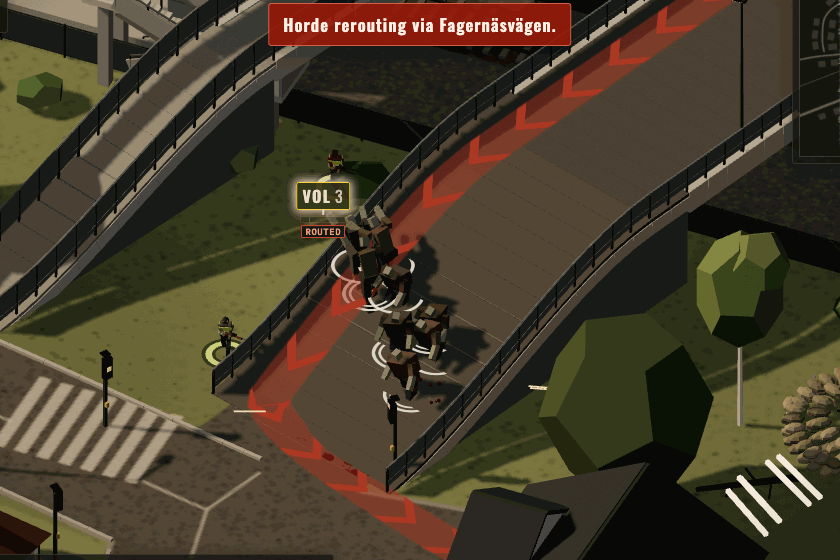
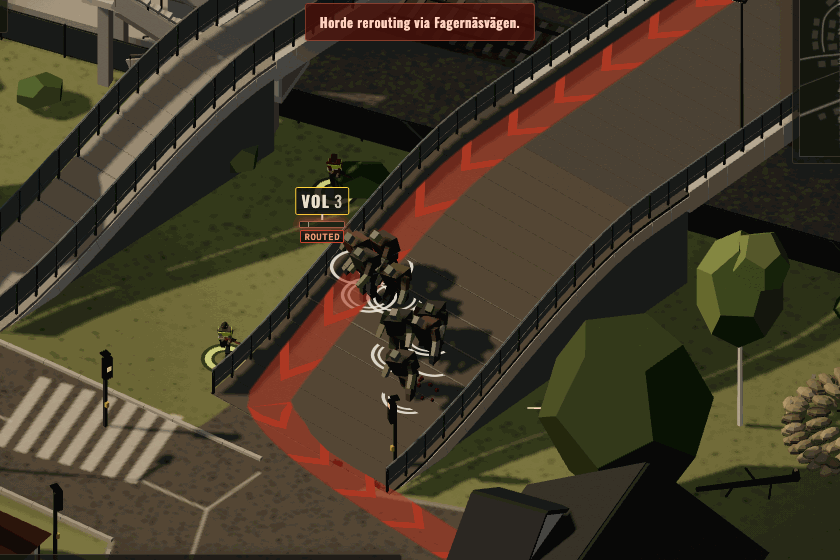
0.19.1: ändringslogg och version

diff --git a/index.html b/index.html
@@ -4,7 +4,7 @@
 <title>Horde</title>
 <link rel="icon" href="data:,">
 <link rel="stylesheet" href="styles.css">
-<script type="importmap">{ "imports": { "three": "https://cdn.jsdelivr.net/npm/three@0.160.0/build/three.module.js", "./src/audio/audio.js": "./src/audio/audio.js?v=0.19.0", "./src/audio/mix.js": "./src/audio/mix.js?v=0.19.0", "./src/audio/music.js": "./src/audio/music.js?v=0.19.0", "./src/audio/voices.js": "./src/audio/voices.js?v=0.19.0", "./src/data/arrival.js": "./src/data/arrival.js?v=0.19.0", "./src/data/bjornlunda.js": "./src/data/bjornlunda.js?v=0.19.0", "./src/data/depot.js": "./src/data/depot.js?v=0.19.0", "./src/data/e4-lastringe.js": "./src/data/e4-lastringe.js?v=0.19.0", "./src/data/footprints.js": "./src/data/footprints.js?v=0.19.0", "./src/data/gnesta-centrum.js": "./src/data/gnesta-centrum.js?v=0.19.0", "./src/data/gnesta-norr.js": "./src/data/gnesta-norr.js?v=0.19.0", "./src/data/gnesta.js": "./src/data/gnesta.js?v=0.19.0", "./src/data/lessons.js": "./src/data/lessons.js?v=0.19.0", "./src/data/maps.js": "./src/data/maps.js?v=0.19.0", "./src/data/molnbo.js": "./src/data/molnbo.js?v=0.19.0", "./src/data/obstacles.js": "./src/data/obstacles.js?v=0.19.0", "./src/data/osm-map.js": "./src/data/osm-map.js?v=0.19.0", "./src/data/research.js": "./src/data/research.js?v=0.19.0", "./src/data/shop.js": "./src/data/shop.js?v=0.19.0", "./src/data/weapons.js": "./src/data/weapons.js?v=0.19.0", "./src/data/zombies.js": "./src/data/zombies.js?v=0.19.0", "./src/main.js": "./src/main.js?v=0.19.0", "./src/meta/debug-store.js": "./src/meta/debug-store.js?v=0.19.0", "./src/meta/intel.js": "./src/meta/intel.js?v=0.19.0", "./src/meta/lessons.js": "./src/meta/lessons.js?v=0.19.0", "./src/meta/operation.js": "./src/meta/operation.js?v=0.19.0", "./src/meta/progress.js": "./src/meta/progress.js?v=0.19.0", "./src/meta/save.js": "./src/meta/save.js?v=0.19.0", "./src/meta/settings.js": "./src/meta/settings.js?v=0.19.0", "./src/meta/unlocks.js": "./src/meta/unlocks.js?v=0.19.0", "./src/render/bjornlunda-kit.js": "./src/render/bjornlunda-kit.js?v=0.19.0", "./src/render/camera-eye.js": "./src/render/camera-eye.js?v=0.19.0", "./src/render/camera-rig.js": "./src/render/camera-rig.js?v=0.19.0", "./src/render/civilians.js": "./src/render/civilians.js?v=0.19.0", "./src/render/debug-overlay.js": "./src/render/debug-overlay.js?v=0.19.0", "./src/render/dormant.js": "./src/render/dormant.js?v=0.19.0", "./src/render/e4-far.js": "./src/render/e4-far.js?v=0.19.0", "./src/render/e4-kit.js": "./src/render/e4-kit.js?v=0.19.0", "./src/render/e4-world.js": "./src/render/e4-world.js?v=0.19.0", "./src/render/fortify.js": "./src/render/fortify.js?v=0.19.0", "./src/render/fx.js": "./src/render/fx.js?v=0.19.0", "./src/render/gnesta-centrum-kit.js": "./src/render/gnesta-centrum-kit.js?v=0.19.0", "./src/render/gnesta-ghost.js": "./src/render/gnesta-ghost.js?v=0.19.0", "./src/render/gnesta-kit.js": "./src/render/gnesta-kit.js?v=0.19.0", "./src/render/gnesta-world.js": "./src/render/gnesta-world.js?v=0.19.0", "./src/render/horde.js": "./src/render/horde.js?v=0.19.0", "./src/render/house-windows.js": "./src/render/house-windows.js?v=0.19.0", "./src/render/kit.js": "./src/render/kit.js?v=0.19.0", "./src/render/lift.js": "./src/render/lift.js?v=0.19.0", "./src/render/models.js": "./src/render/models.js?v=0.19.0", "./src/render/molnbo-kit.js": "./src/render/molnbo-kit.js?v=0.19.0", "./src/render/molnbo-world.js": "./src/render/molnbo-world.js?v=0.19.0", "./src/render/osm-world.js": "./src/render/osm-world.js?v=0.19.0", "./src/render/picking.js": "./src/render/picking.js?v=0.19.0", "./src/render/portrait.js": "./src/render/portrait.js?v=0.19.0", "./src/render/rings.js": "./src/render/rings.js?v=0.19.0", "./src/render/route-lines.js": "./src/render/route-lines.js?v=0.19.0", "./src/render/scene.js": "./src/render/scene.js?v=0.19.0", "./src/render/squad-view.js": "./src/render/squad-view.js?v=0.19.0", "./src/render/view.js": "./src/render/view.js?v=0.19.0", "./src/render/world.js": "./src/render/world.js?v=0.19.0", "./src/sim/buy.js": "./src/sim/buy.js?v=0.19.0", "./src/sim/cells.js": "./src/sim/cells.js?v=0.19.0", "./src/sim/clock.js": "./src/sim/clock.js?v=0.19.0", "./src/sim/crew-path.js": "./src/sim/crew-path.js?v=0.19.0", "./src/sim/emplace.js": "./src/sim/emplace.js?v=0.19.0", "./src/sim/evac-danger.js": "./src/sim/evac-danger.js?v=0.19.0", "./src/sim/flow.js": "./src/sim/flow.js?v=0.19.0", "./src/sim/grid.js": "./src/sim/grid.js?v=0.19.0", "./src/sim/houses.js": "./src/sim/houses.js?v=0.19.0", "./src/sim/path.js": "./src/sim/path.js?v=0.19.0", "./src/sim/placement.js": "./src/sim/placement.js?v=0.19.0", "./src/sim/rng.js": "./src/sim/rng.js?v=0.19.0", "./src/sim/route.js": "./src/sim/route.js?v=0.19.0", "./src/sim/sanity.js": "./src/sim/sanity.js?v=0.19.0", "./src/sim/sim.js": "./src/sim/sim.js?v=0.19.0", "./src/sim/snap.js": "./src/sim/snap.js?v=0.19.0", "./src/sim/squad.js": "./src/sim/squad.js?v=0.19.0", "./src/sim/stats.js": "./src/sim/stats.js?v=0.19.0", "./src/sim/streets.js": "./src/sim/streets.js?v=0.19.0", "./src/ui/chord.js": "./src/ui/chord.js?v=0.19.0", "./src/ui/coach.js": "./src/ui/coach.js?v=0.19.0", "./src/ui/debug.js": "./src/ui/debug.js?v=0.19.0", "./src/ui/format.js": "./src/ui/format.js?v=0.19.0", "./src/ui/gesture.js": "./src/ui/gesture.js?v=0.19.0", "./src/ui/hud.js": "./src/ui/hud.js?v=0.19.0", "./src/ui/icons.js": "./src/ui/icons.js?v=0.19.0", "./src/ui/menu.js": "./src/ui/menu.js?v=0.19.0", "./src/ui/minimap.js": "./src/ui/minimap.js?v=0.19.0", "./src/ui/operation.js": "./src/ui/operation.js?v=0.19.0", "./src/ui/panels.js": "./src/ui/panels.js?v=0.19.0", "./src/ui/statbars.js": "./src/ui/statbars.js?v=0.19.0", "./src/ui/train.js": "./src/ui/train.js?v=0.19.0", "./src/version.js": "./src/version.js?v=0.19.0" } }</script>
+<script type="importmap">{ "imports": { "three": "https://cdn.jsdelivr.net/npm/three@0.160.0/build/three.module.js", "./src/audio/audio.js": "./src/audio/audio.js?v=0.19.1", "./src/audio/mix.js": "./src/audio/mix.js?v=0.19.1", "./src/audio/music.js": "./src/audio/music.js?v=0.19.1", "./src/audio/voices.js": "./src/audio/voices.js?v=0.19.1", "./src/data/arrival.js": "./src/data/arrival.js?v=0.19.1", "./src/data/bjornlunda.js": "./src/data/bjornlunda.js?v=0.19.1", "./src/data/depot.js": "./src/data/depot.js?v=0.19.1", "./src/data/e4-lastringe.js": "./src/data/e4-lastringe.js?v=0.19.1", "./src/data/footprints.js": "./src/data/footprints.js?v=0.19.1", "./src/data/gnesta-centrum.js": "./src/data/gnesta-centrum.js?v=0.19.1", "./src/data/gnesta-norr.js": "./src/data/gnesta-norr.js?v=0.19.1", "./src/data/gnesta.js": "./src/data/gnesta.js?v=0.19.1", "./src/data/lessons.js": "./src/data/lessons.js?v=0.19.1", "./src/data/maps.js": "./src/data/maps.js?v=0.19.1", "./src/data/molnbo.js": "./src/data/molnbo.js?v=0.19.1", "./src/data/obstacles.js": "./src/data/obstacles.js?v=0.19.1", "./src/data/osm-map.js": "./src/data/osm-map.js?v=0.19.1", "./src/data/research.js": "./src/data/research.js?v=0.19.1", "./src/data/shop.js": "./src/data/shop.js?v=0.19.1", "./src/data/weapons.js": "./src/data/weapons.js?v=0.19.1", "./src/data/zombies.js": "./src/data/zombies.js?v=0.19.1", "./src/main.js": "./src/main.js?v=0.19.1", "./src/meta/debug-store.js": "./src/meta/debug-store.js?v=0.19.1", "./src/meta/intel.js": "./src/meta/intel.js?v=0.19.1", "./src/meta/lessons.js": "./src/meta/lessons.js?v=0.19.1", "./src/meta/operation.js": "./src/meta/operation.js?v=0.19.1", "./src/meta/progress.js": "./src/meta/progress.js?v=0.19.1", "./src/meta/save.js": "./src/meta/save.js?v=0.19.1", "./src/meta/settings.js": "./src/meta/settings.js?v=0.19.1", "./src/meta/unlocks.js": "./src/meta/unlocks.js?v=0.19.1", "./src/render/bjornlunda-kit.js": "./src/render/bjornlunda-kit.js?v=0.19.1", "./src/render/camera-eye.js": "./src/render/camera-eye.js?v=0.19.1", "./src/render/camera-rig.js": "./src/render/camera-rig.js?v=0.19.1", "./src/render/civilians.js": "./src/render/civilians.js?v=0.19.1", "./src/render/debug-overlay.js": "./src/render/debug-overlay.js?v=0.19.1", "./src/render/dormant.js": "./src/render/dormant.js?v=0.19.1", "./src/render/e4-far.js": "./src/render/e4-far.js?v=0.19.1", "./src/render/e4-kit.js": "./src/render/e4-kit.js?v=0.19.1", "./src/render/e4-world.js": "./src/render/e4-world.js?v=0.19.1", "./src/render/fortify.js": "./src/render/fortify.js?v=0.19.1", "./src/render/fx.js": "./src/render/fx.js?v=0.19.1", "./src/render/gnesta-centrum-kit.js": "./src/render/gnesta-centrum-kit.js?v=0.19.1", "./src/render/gnesta-ghost.js": "./src/render/gnesta-ghost.js?v=0.19.1", "./src/render/gnesta-kit.js": "./src/render/gnesta-kit.js?v=0.19.1", "./src/render/gnesta-world.js": "./src/render/gnesta-world.js?v=0.19.1", "./src/render/horde.js": "./src/render/horde.js?v=0.19.1", "./src/render/house-windows.js": "./src/render/house-windows.js?v=0.19.1", "./src/render/kit.js": "./src/render/kit.js?v=0.19.1", "./src/render/lift.js": "./src/render/lift.js?v=0.19.1", "./src/render/models.js": "./src/render/models.js?v=0.19.1", "./src/render/molnbo-kit.js": "./src/render/molnbo-kit.js?v=0.19.1", "./src/render/molnbo-world.js": "./src/render/molnbo-world.js?v=0.19.1", "./src/render/osm-world.js": "./src/render/osm-world.js?v=0.19.1", "./src/render/picking.js": "./src/render/picking.js?v=0.19.1", "./src/render/portrait.js": "./src/render/portrait.js?v=0.19.1", "./src/render/rings.js": "./src/render/rings.js?v=0.19.1", "./src/render/route-lines.js": "./src/render/route-lines.js?v=0.19.1", "./src/render/scene.js": "./src/render/scene.js?v=0.19.1", "./src/render/squad-view.js": "./src/render/squad-view.js?v=0.19.1", "./src/render/view.js": "./src/render/view.js?v=0.19.1", "./src/render/world.js": "./src/render/world.js?v=0.19.1", "./src/sim/buy.js": "./src/sim/buy.js?v=0.19.1", "./src/sim/cells.js": "./src/sim/cells.js?v=0.19.1", "./src/sim/clock.js": "./src/sim/clock.js?v=0.19.1", "./src/sim/crew-path.js": "./src/sim/crew-path.js?v=0.19.1", "./src/sim/emplace.js": "./src/sim/emplace.js?v=0.19.1", "./src/sim/evac-danger.js": "./src/sim/evac-danger.js?v=0.19.1", "./src/sim/flow.js": "./src/sim/flow.js?v=0.19.1", "./src/sim/grid.js": "./src/sim/grid.js?v=0.19.1", "./src/sim/houses.js": "./src/sim/houses.js?v=0.19.1", "./src/sim/path.js": "./src/sim/path.js?v=0.19.1", "./src/sim/placement.js": "./src/sim/placement.js?v=0.19.1", "./src/sim/rng.js": "./src/sim/rng.js?v=0.19.1", "./src/sim/route.js": "./src/sim/route.js?v=0.19.1", "./src/sim/sanity.js": "./src/sim/sanity.js?v=0.19.1", "./src/sim/sim.js": "./src/sim/sim.js?v=0.19.1", "./src/sim/snap.js": "./src/sim/snap.js?v=0.19.1", "./src/sim/squad.js": "./src/sim/squad.js?v=0.19.1", "./src/sim/stats.js": "./src/sim/stats.js?v=0.19.1", "./src/sim/streets.js": "./src/sim/streets.js?v=0.19.1", "./src/ui/chord.js": "./src/ui/chord.js?v=0.19.1", "./src/ui/coach.js": "./src/ui/coach.js?v=0.19.1", "./src/ui/debug.js": "./src/ui/debug.js?v=0.19.1", "./src/ui/format.js": "./src/ui/format.js?v=0.19.1", "./src/ui/gesture.js": "./src/ui/gesture.js?v=0.19.1", "./src/ui/hud.js": "./src/ui/hud.js?v=0.19.1", "./src/ui/icons.js": "./src/ui/icons.js?v=0.19.1", "./src/ui/menu.js": "./src/ui/menu.js?v=0.19.1", "./src/ui/minimap.js": "./src/ui/minimap.js?v=0.19.1", "./src/ui/operation.js": "./src/ui/operation.js?v=0.19.1", "./src/ui/panels.js": "./src/ui/panels.js?v=0.19.1", "./src/ui/statbars.js": "./src/ui/statbars.js?v=0.19.1", "./src/ui/train.js": "./src/ui/train.js?v=0.19.1", "./src/version.js": "./src/version.js?v=0.19.1" } }</script>
 </head><body>
 <div id="stage" class="grade"></div>
 <div class="vignette"></div>
@@ -37,5 +37,5 @@
   });
 })();
 </script>
-<script type="module" src="src/main.js?v=0.19.0"></script>
+<script type="module" src="src/main.js?v=0.19.1"></script>
 </body></html>

diff --git a/src/version.js b/src/version.js
@@ -1,1 +1,1 @@
-export const VERSION = '0.19.0';
+export const VERSION = '0.19.1';

diff --git a/CHANGELOG.md b/CHANGELOG.md
@@ -1,5 +1,30 @@
 # Ändringslogg
 
+## 0.19.1: speltestet av 0.19.0 (2026-10-19)
+
+Speltestet sa NEJ (docs/playtests/2026-10-19-0.19.0.md): Mölnbo dag 3 och 4 var en mur, bjässens knuff-tips kom aldrig, Move in i hus gick i 1 av 13 hus och snubblet klumpade sig.
+
+Mölnbo dag 3 och 4 (H462). Grinden höll "högst två vågor ute", men den långa klockan släppte nästa våg 50 s efter att den senaste kommit ut, hur många av den som än levde. På Mölnbos långa vägar hade en våg knappt nått försvaret: dag 4 kom våg 4 med 63 av 73 i våg 3 kvar, och pendeltågets 50 ovanpå. Nu släpper klockan bara om 40 % av den senaste är nere (overlapMin, Mölnbo dag 3 till 5); annars väntar nästa våg på 70 %, eller tre gånger klockan. Dag 3:s våg 3 och 4 är mindre (77 och 110), dag 4:s pendeltåg kommer i tredje vågen när det är lugnare, och tåget går 420 s. I balansen har båda spelarna hela basen när tåget signalerar; den som flyttar mot perrongen klarar dagen med god marginal, den som håller betalar. Vikingavägen och Ishallen räknar som förut.
+
+En stor röd banderoll i taget (H463). Tåget går före en enhet som bryts, som går före resten (omväg, genombrott, basen). En ny med högre rang tar den stora platsen, de andra står små under.
+
+Bjässens knuff syns (H461). Tipset kom aldrig: händelsen fångades av barrikadgrenen före tipsgrenen. Nu tipset första gången, sedan "A brute shoved the cars aside on Stenbyvägen."; raden "Cars shoved aside" stiger där det hände, damm och plåt när knuffen börjar, och vraken glider längre åt sidan.
+
+Vågens svans (H464). Regeln gäller alla typer, också bjässar och pansrade (tre bjässar på väg 57: 191 till 148 s). När de sista inte syns står en plåt vid skärmkanten, "3 left: brutes, Stenbyvägen", och ett klick flyttar kameran dit.
+
+Move in i hus mitt i vågen (H465). Dörren valdes bara bland gatrutorna intill huset, och en villa på sin tomt har ingen: "Door blocked" utan synlig orsak. Nu är dörren närmaste ruta trupperna går på, en soldat i en ficka nekar inte hela gruppen, och en bod eller ett garage säger "This building can't be entered". Nytt prov över alla hus på Mölnbo och Vikingavägen.
+
+Snubblet (H466). Minst 60 m mellan två för samma löpare, utlösarna en liten chans (varje gathörn var en sväng), och inget snubbel inom 4 m och 10 s från ett annat. Ungefär var fjärde till femte löpare snubblar över Mölnbo (var nästan alla).
+
+Smått från speltestet:
+- Förrådet föreslår vilade före utmattade (H467).
+- "+20 %" och "+$" hålls ovanför köpraden och under plåtarna uppe; takets lappar döljs under dagrutan och SUPPLIES (H468).
+- Raden om "the empty X60" som skydd borta (H469).
+- Introna dag 2 och 3 säger varifrån (H470): "From Järna and from the south. Squads in houses along Stenbyvägen." och "Day 3: The train", Järna och Fagernäsvägen i öster.
+- Kortet säger "3 in reserve" mitt i vågen i stället för "All out" när några av typen redan är ute.
+
+Balansen: Mölnbo dag 3 hp 17,5 till 18, dag 4 32 till 38, dag 5 15 till 19. docs/balance-log.md 0.19.1.
+
 ## 0.19.0: Mölnbo-passet (2026-10-19)
 
 Speltestet av 0.18.1 (docs/playtests/2026-10-18-0.18.1.md) och Olas Mölnbo-lista (H428, H443, H450 till H459).
